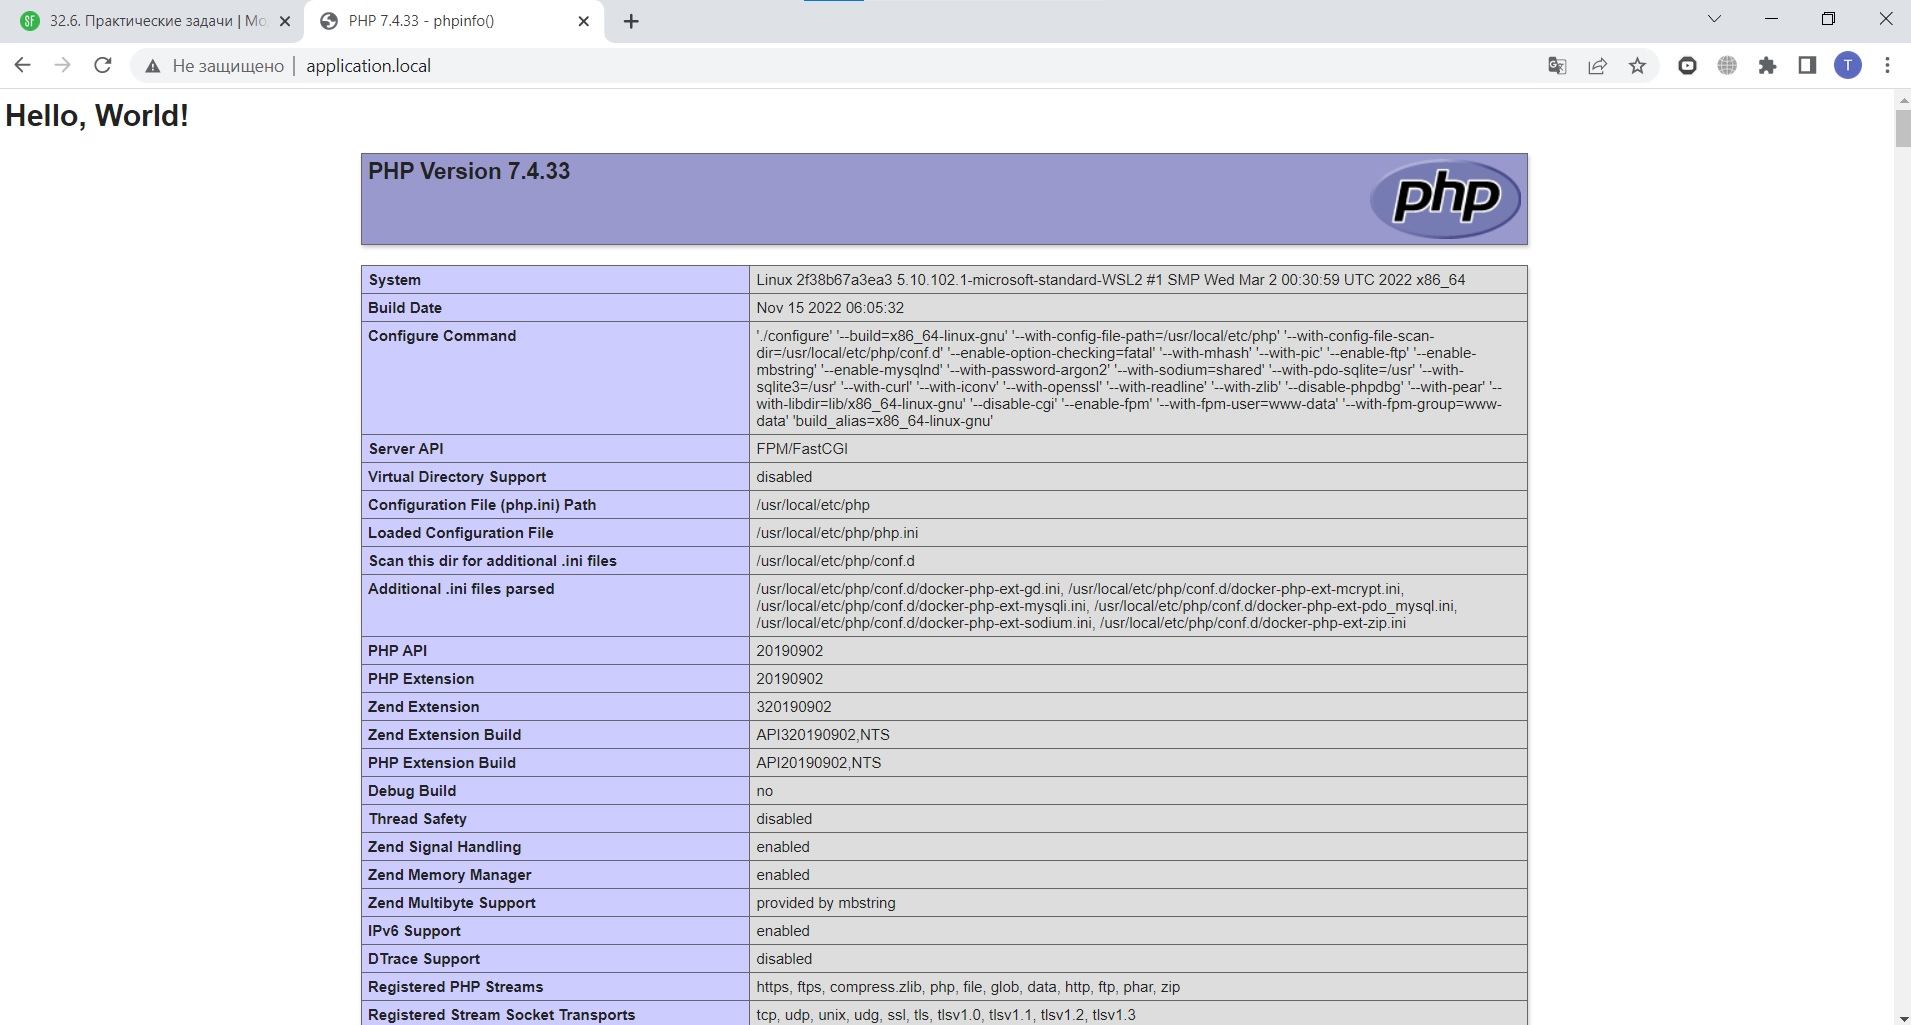
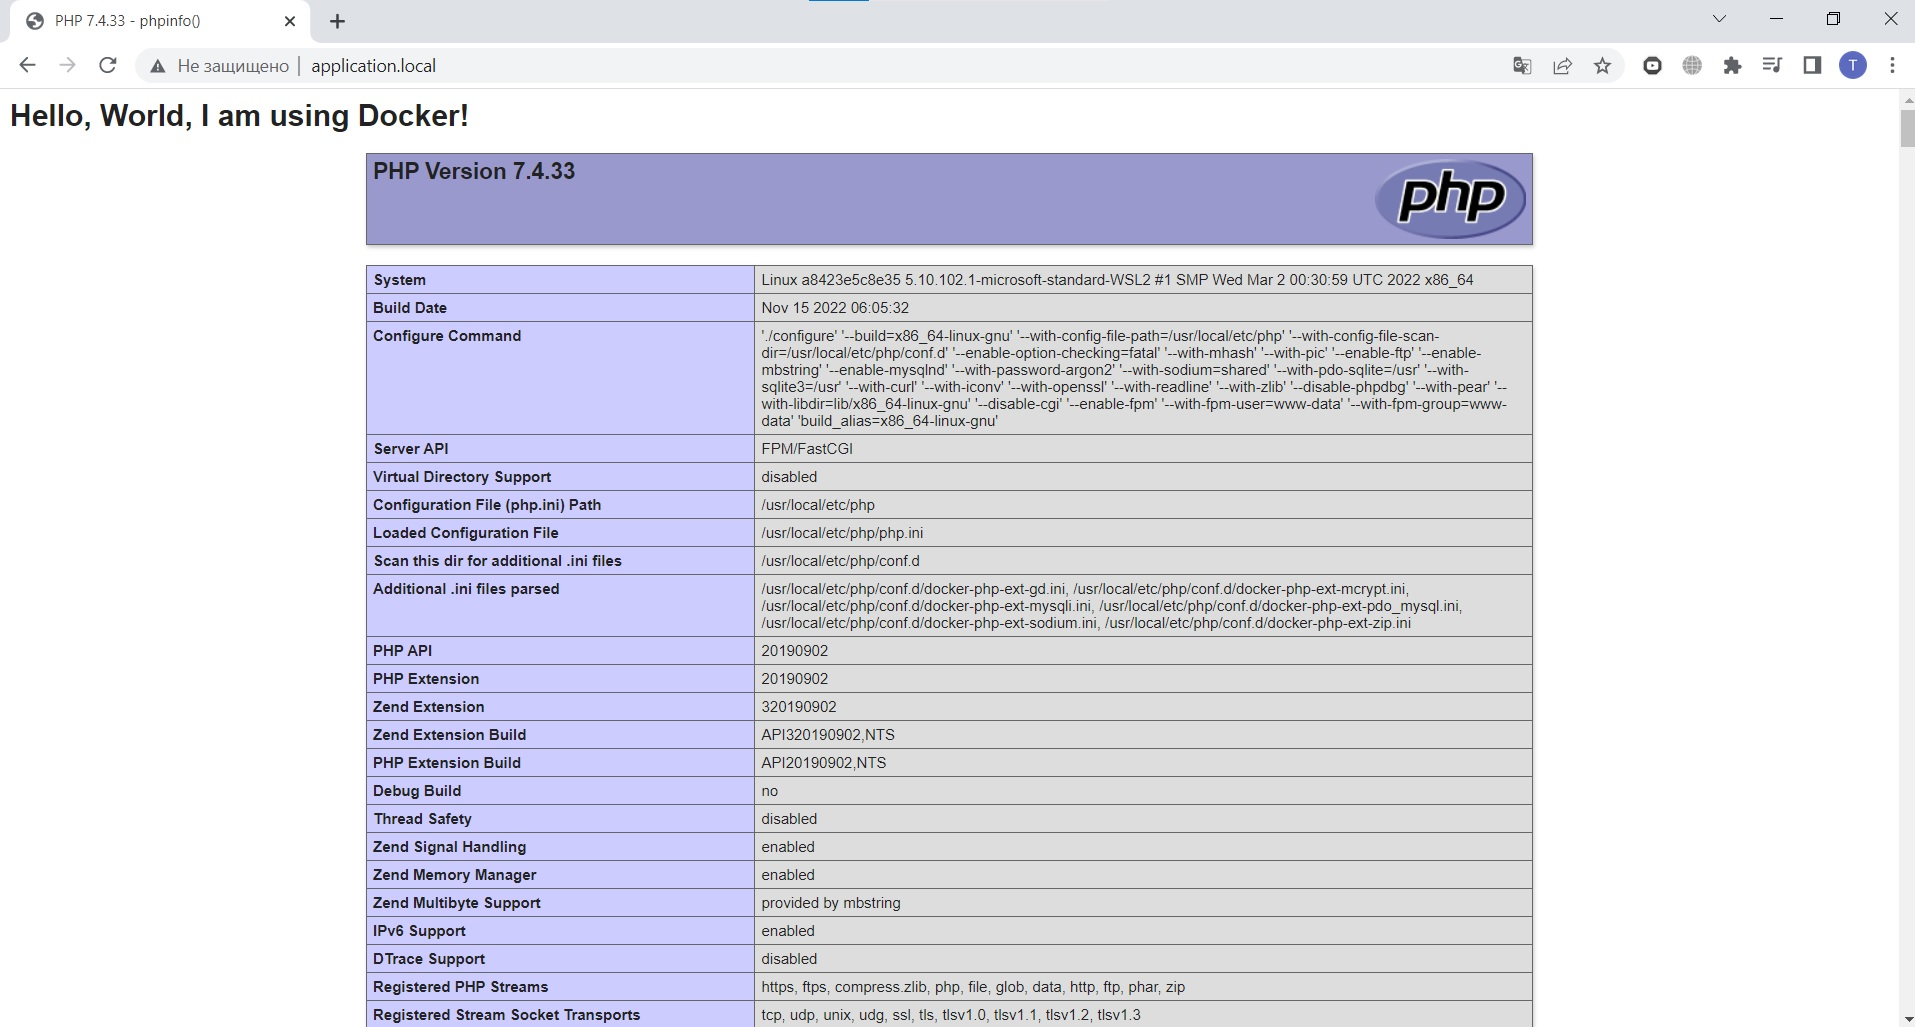
fix style

diff --git a/code/index.php b/code/index.php
@@ -1,3 +1,3 @@
 <?php
-    echo "<h1>Hello, World!</h1>";
+    echo "<h1>Hello, World, I am using Docker!</h1>";
     phpinfo();

diff --git a/README.md b/README.md
@@ -13,7 +13,7 @@
 
 * Настроена проброс-возможность передавать в контейнер *MySQL* файл конфигурации *my.сnf* с возможностью передать свое значение параметра *bind-address*. 
 
-* На локальной машине был запущен сайт *application.local*, на сайте представлено приветствие *Hello, World* и исполнение функции *phpinfo()*. В репозитории предоставлен скриншот выполнения.
+* На локальной машине был запущен сайт *application.local*, на сайте представлено приветствие *Hello, World, I am using Docker!* и исполнение функции *phpinfo()*. В репозитории предоставлен скриншот выполнения.
 
 
 
